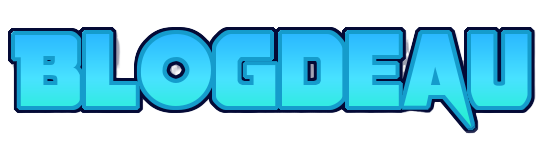
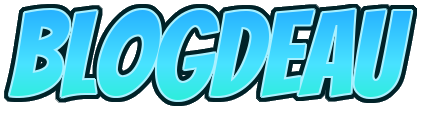
:lipstick: Attention les jeunes ! CSS en vu !

diff --git a/release/public/css/style.css b/release/public/css/style.css
@@ -221,3 +221,7 @@
     background-color: rgba(255, 255, 255, 0.6);
 }
 
+/*Global styles*/
+body{
+    font-family: 'bangers', cursive !important;
+}
